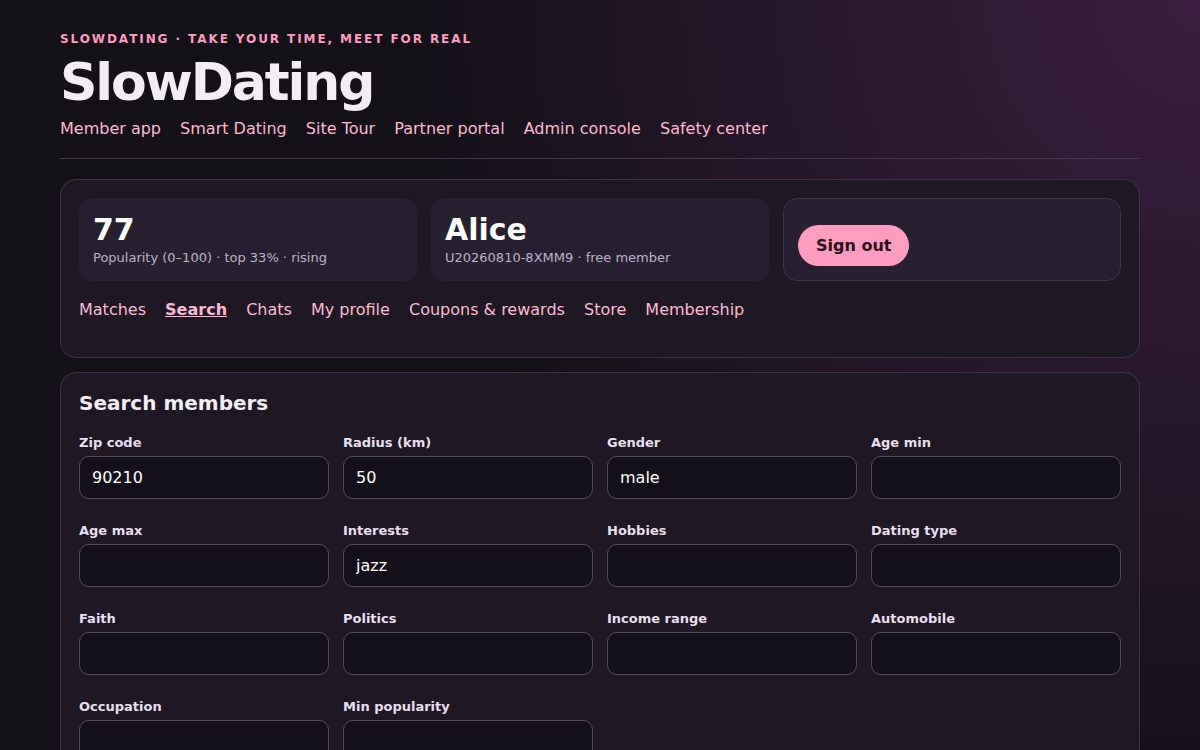
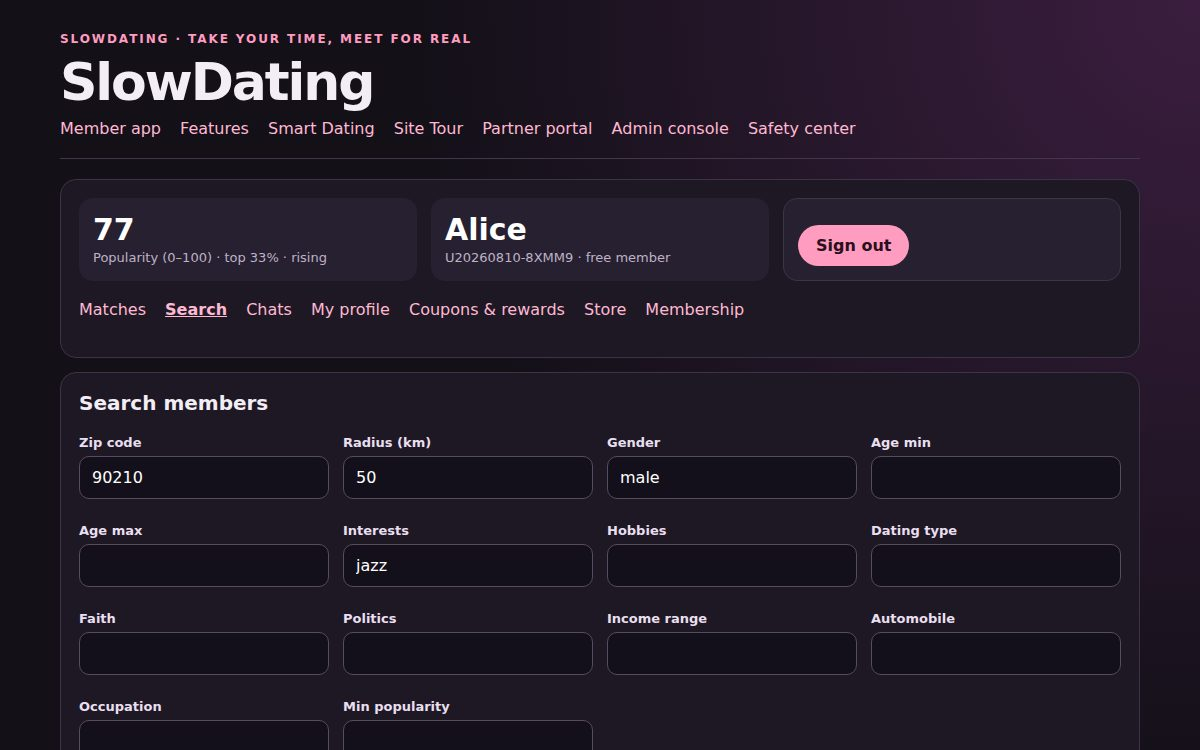
Add public Features page and menu item
dating/features.php lists every platform capability in four groups —
for members, safety, for partner businesses, and the platform itself —
as a public page linked from the shared navigation. Tour slides
recaptured with the updated menu; file registered in
SitePackageExporter::FILES.

Claude-Session: https://claude.ai/code/session_0184FDRcFMoLtfdfzL1xuE17

Changed region(s): [[0.1542, 0.1533, 0.7092, 0.184]]

diff --git a/dating/features.php b/dating/features.php
@@ -1,0 +1,76 @@
+<?php
+
+declare(strict_types=1);
+
+require_once __DIR__ . '/ui.php';
+
+/**
+ * Features — the public feature list, grouped by audience. Content is a
+ * plain data array so the list stays easy to keep in step with
+ * FEATURE_SPEC.md when the platform grows.
+ */
+
+$groups = [
+    ['For members', [
+        ['Slow chat that earns real time', 'Messages start at 5 a day and 280 characters, widen every week, and unlock into unlimited real-time chat after 30 days and 10 genuine two-way conversations.'],
+        ['Contact-info protection', 'Phone numbers, emails, links, and social handles are erased from messages until a chat unlocks — contact sharing is earned, never rushed.'],
+        ['11-factor matching', 'Distance, interests, hobbies, outdoor life, dating goal, faith, politics, income, occupation, automobile, and popularity balance blend into one match score.'],
+        ['Deep search', 'Filter the community by zip proximity, age, interests, hobbies, outdoor activities, dating type, faith, politics, income range, automobile, occupation, and popularity.'],
+        ['Popularity rating', 'A fair 0–100 score from the attention you receive, normalized within your own group. Others see the score — never who viewed or messaged you.'],
+        ['Video profiles', 'Embed up to five YouTube videos, validated and rendered safely.'],
+        ['AI date concierge', 'Reads what a chat is really about and suggests up to three vetted nearby venues, each with a plain-language reason.'],
+        ['Coupons, events & store', 'Partner discounts land in your wallet, event tickets enter you in venue contests automatically, and the store sells date-night kits with live stock.'],
+        ['Member rewards', 'The most engaging members receive free memberships, gift certificates, tickets, and sponsored trips — visible in your wallet.'],
+        ['Honest membership', 'Free to join. Member $19/year, VIP $79 (early chat unlock, boost), Elite $199 (chaperone priority, elite events).'],
+    ]],
+    ['Safety, women first', [
+        ['Filtering before trust', 'Contact data cannot leave a chat before the 30-day unlock — the scammer\'s rush tactic simply doesn\'t work here.'],
+        ['Red-flag detection', 'Money requests, urgency pressure, off-platform pushes, and coercion raise an automatic safety alert for the recipient.'],
+        ['Safety education', 'A public Safety Center with red flags, a first-date checklist, and exit strategies.'],
+        ['Vetted venues only', 'Every recommended venue is atmosphere-tagged: quiet, romantic, adult, date-compatible.'],
+        ['VIP chaperones', 'Professional bodyguard partners offer discreet escorts, safe-arrival verification, and emergency response for any date.'],
+        ['Strong passwords, always', 'A twelve-character four-class minimum for every account, with a generated strong password offered at signup.'],
+    ]],
+    ['For partner businesses', [
+        ['Self-service portal', 'Restaurants, lounges, cruise lines, tour and experience companies, bodyguard services, and vendors sign up and manage everything themselves.'],
+        ['Three plans', 'Basic (free listing, random coupons, events), Pro (targeted coupons, contests, analytics), Elite (priority concierge placement, deep reporting).'],
+        ['Precision coupons', 'Random offers to nearby members, or targeted segments like "women 21–35 within 30 km" — with estimated reach before you send.'],
+        ['Events & contests', 'Announce singles nights with capacity-controlled ticketing; attach prize draws that enter every ticket buyer automatically.'],
+        ['A shelf in the store', 'List date-night products with live inventory; the platform handles orders.'],
+        ['Live analytics', 'Coupons sent, redemptions, tickets sold, revenue, and contest entries — computed from the actual records.'],
+        ['System integration', 'External ticketing, reservation, and booking systems report in over signed webhooks.'],
+    ]],
+    ['The platform', [
+        ['Runs anywhere', 'Dependency-free PHP 8.1+ — no database server, no packages, no API keys. Deploys to any shared host by copying one folder.'],
+        ['Full API', 'Every feature is available over a JSON API with a complete OpenAPI contract.'],
+        ['Deterministic & tested', 'Same inputs always produce the same results, and an automated contract suite verifies every rule before anything ships.'],
+        ['Desktop & mobile', 'One responsive interface across phones, tablets, and desktops.'],
+    ]],
+];
+
+sd_page_open('Features', 'SlowDating · everything the platform does');
+?>
+<p style="max-width:70ch">Every capability of the platform at a glance — what members get, how safety is
+    built in, what partner businesses can do, and what the technology guarantees. The full rules behind each
+    item live in the technical specification.</p>
+
+<?php foreach ($groups as [$heading, $features]): ?>
+    <section>
+        <h2><?= sd_e($heading) ?></h2>
+        <div class="grid">
+            <?php foreach ($features as [$name, $blurb]): ?>
+                <div class="card">
+                    <strong><?= sd_e($name) ?></strong>
+                    <span style="color:#c4b8ce;font-size:13.5px;line-height:1.55"><?= sd_e($blurb) ?></span>
+                </div>
+            <?php endforeach; ?>
+        </div>
+    </section>
+<?php endforeach; ?>
+
+<section>
+    <h2>See it for yourself</h2>
+    <p><a href="site-tour.php">Take the one-minute Site Tour</a> · <a href="index.php">Create a free account</a> · <a href="partner-portal.php">Become a partner</a></p>
+</section>
+
+<?php sd_page_close(); ?>

diff --git a/dating/ui.php b/dating/ui.php
@@ -67,6 +67,7 @@ function sd_page_open(string $title, string $eyebrow): void
         <h1><?= sd_e($title) ?></h1>
         <nav>
             <a href="index.php">Member app</a>
+            <a href="features.php">Features</a>
             <a href="smart-dating.php">Smart Dating</a>
             <a href="site-tour.php">Site Tour</a>
             <a href="partner-portal.php">Partner portal</a>

diff --git a/SitePackageExporter.php b/SitePackageExporter.php
@@ -43,6 +43,7 @@ final class SitePackageExporter
         'dating/partner-portal.php',
         'dating/admin.php',
         'dating/safety-center.php',
+        'dating/features.php',
         'dating/site-tour.php',
         'dating/smart-dating.php',
         'dating/ui.php',
